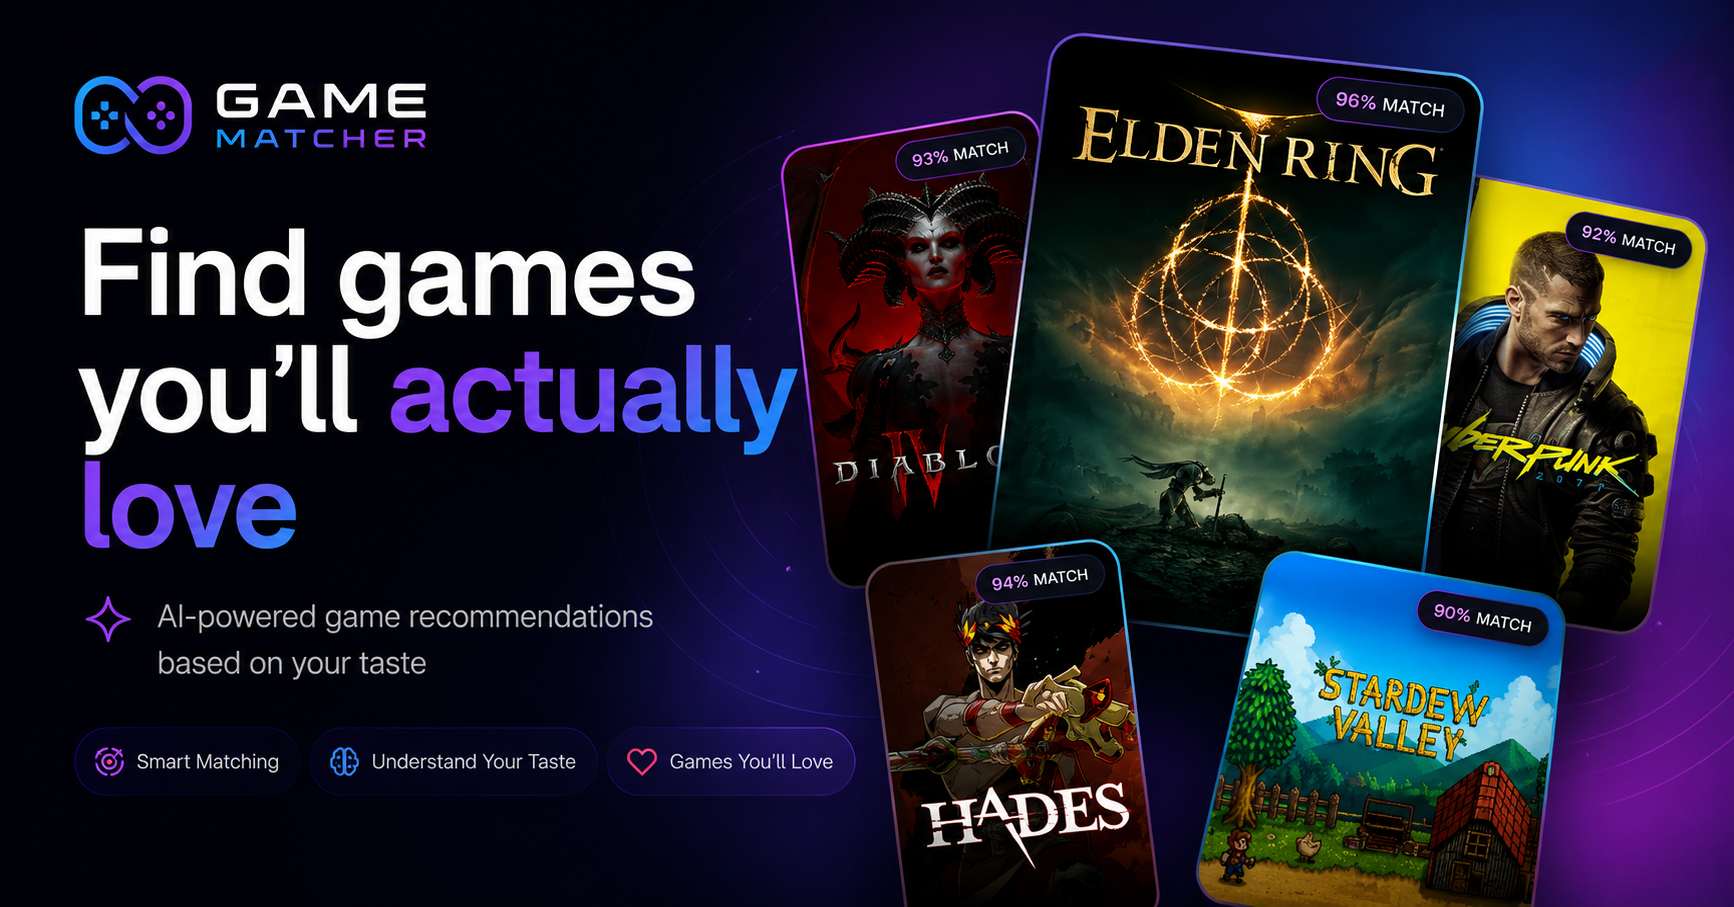
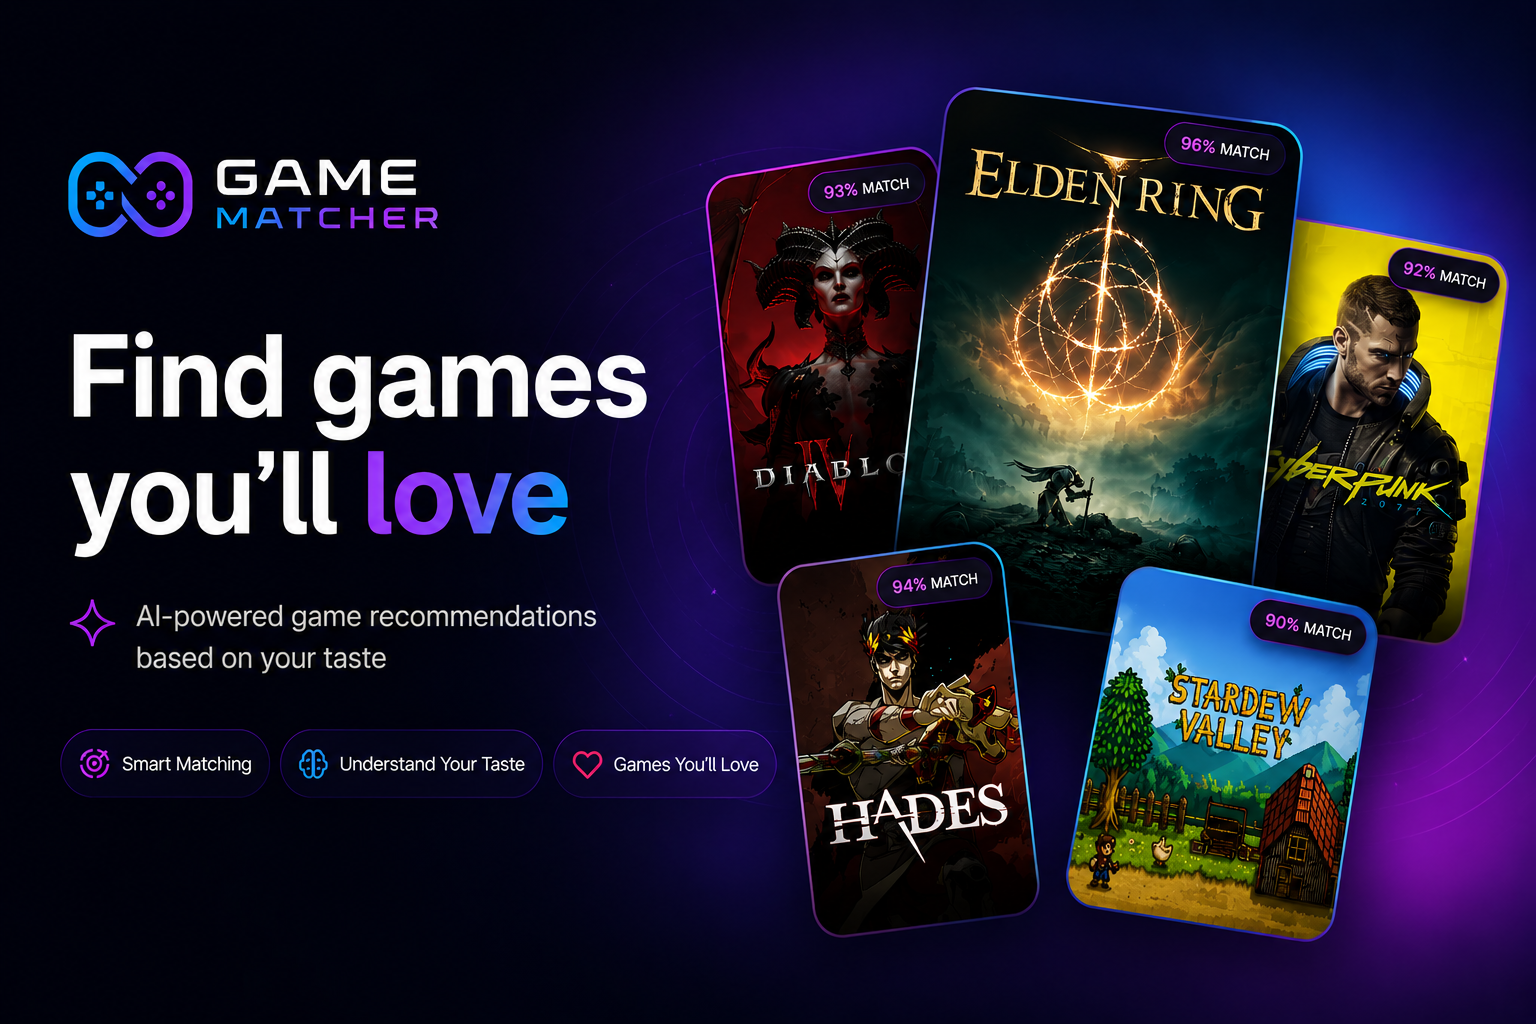
chore: update og image and main copy

diff --git a/app/page.tsx b/app/page.tsx
@@ -45,7 +45,7 @@ export default async function Home() {
           <h1 className="text-4xl md:text-6xl lg:text-7xl font-extrabold tracking-tight leading-[1.05]">
             Find games you&apos;ll{" "}
             <span className="gradient-text bg-size-[200%_auto] animate-gradient-shift">
-              actually love
+              love
             </span>
           </h1>
           <p className="text-base md:text-lg text-muted-foreground max-w-2xl mx-auto">

diff --git a/app/layout.tsx b/app/layout.tsx
@@ -22,7 +22,7 @@ export const metadata: Metadata = {
   openGraph: {
     title: "Game Matcher — Find Similar Games Based on Your Taste",
     description:
-      "Find games you'll actually love using AI-powered semantic game matching and gameplay trait analysis.",
+      "Find games you'll love using AI-powered semantic game matching and gameplay trait analysis.",
     url: "https://gamematcher.app",
     siteName: "Game Matcher",
     type: "website",
